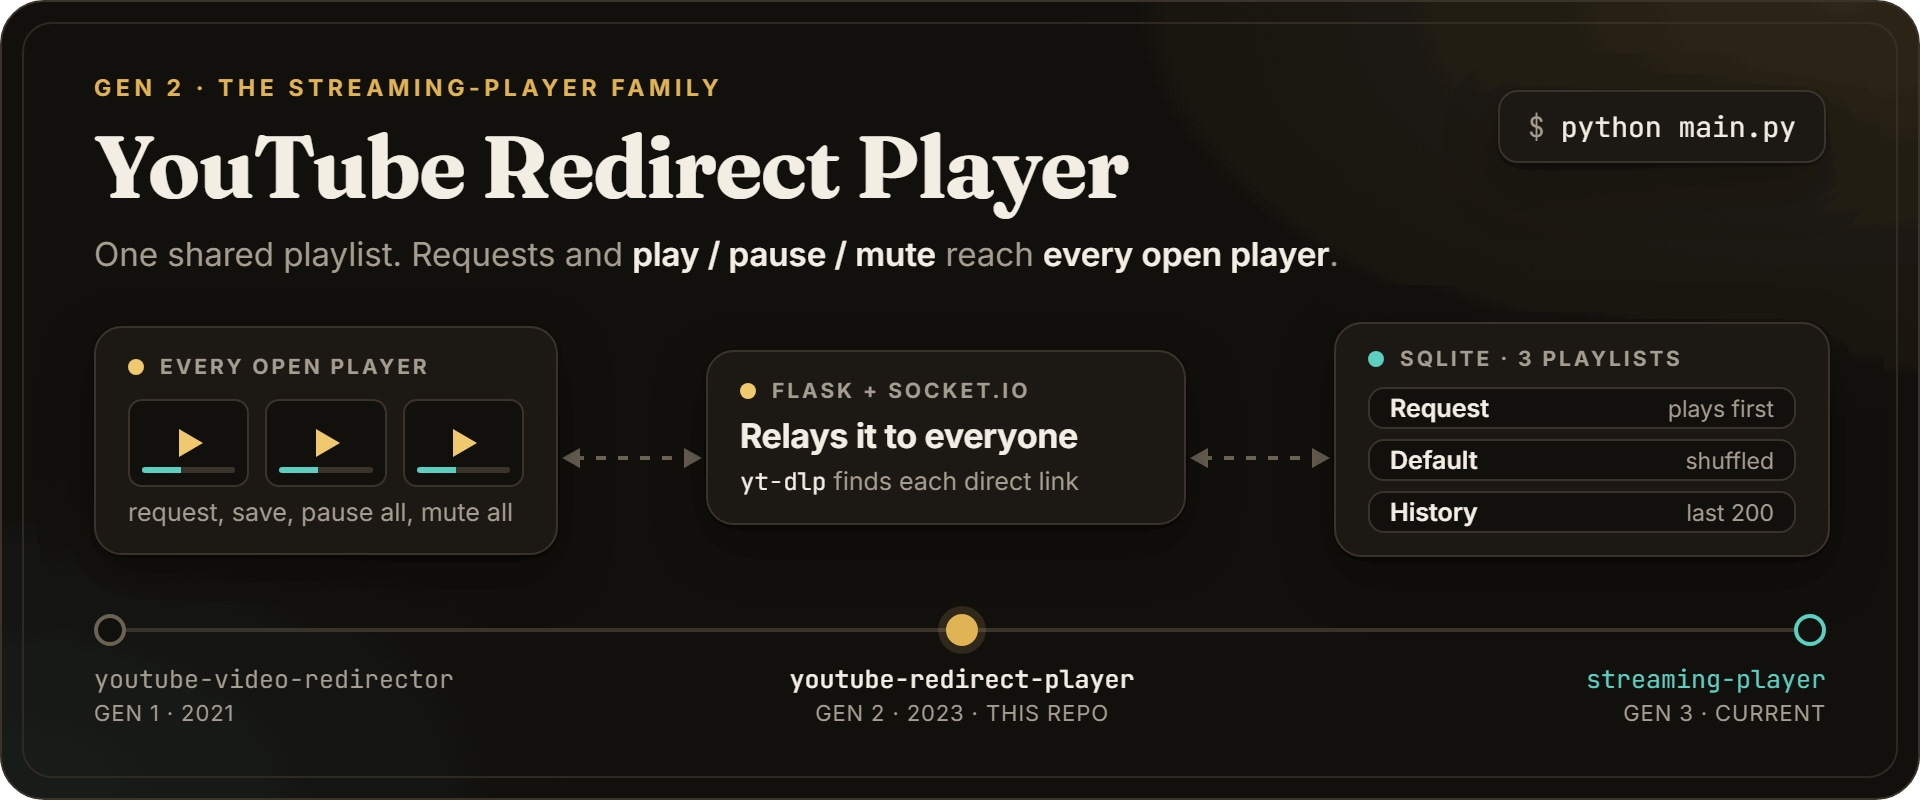
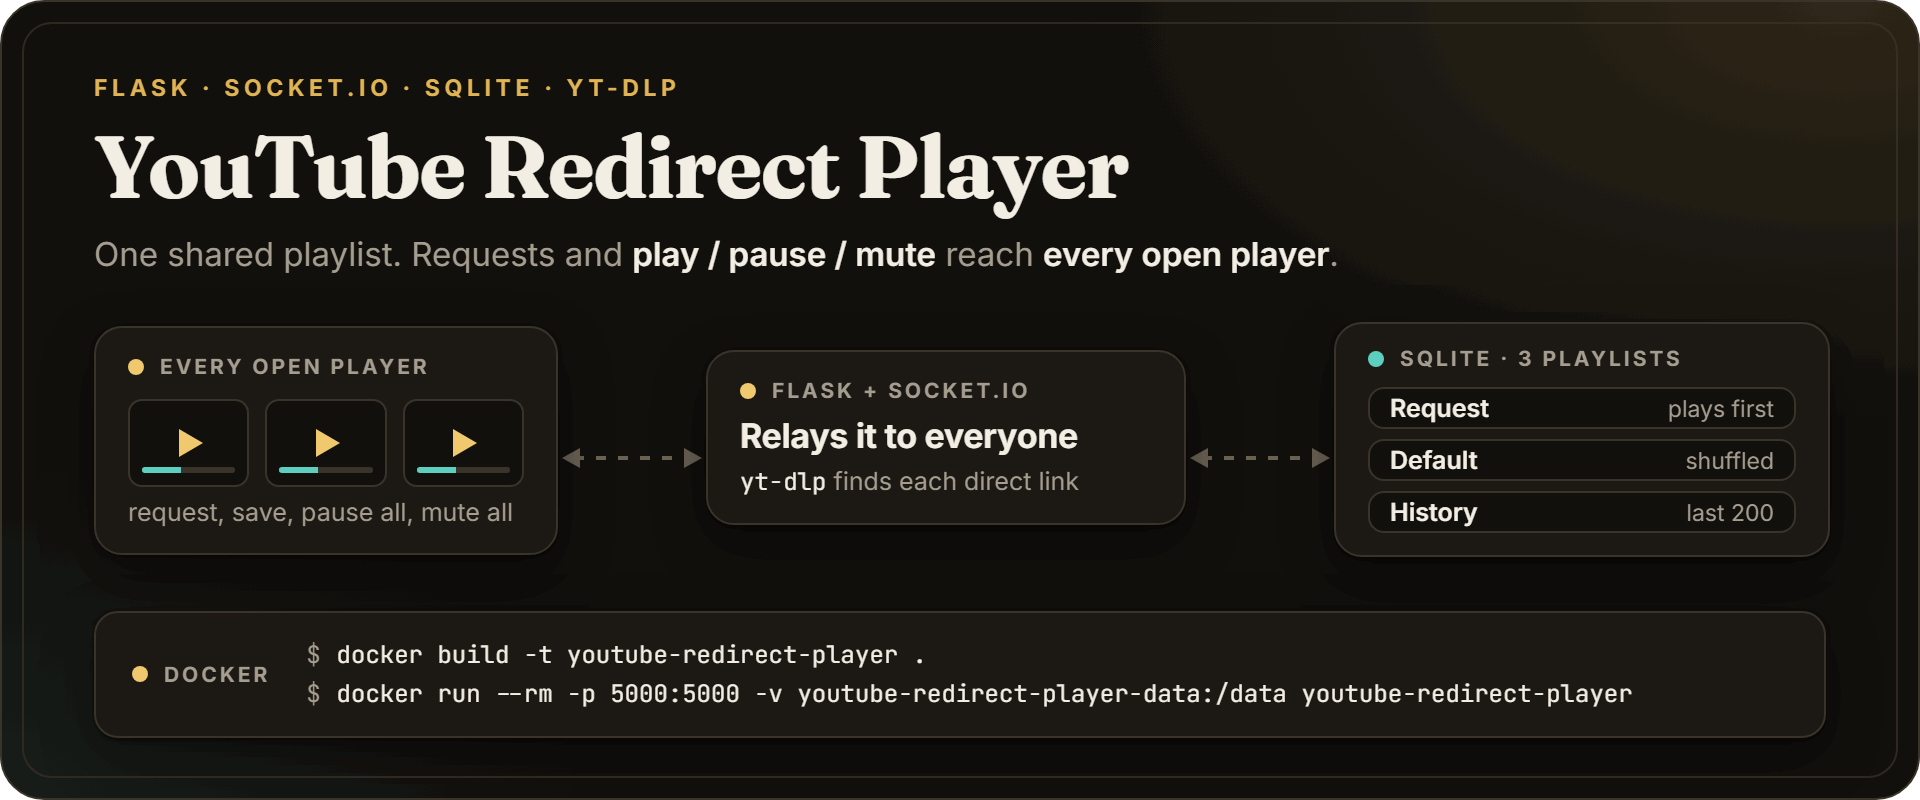
docs: make the cover about this project alone
The owner doesn't want this repo and its relatives described as
generations of each other, so the cover drops the "Gen 2 · the
streaming-player family" line and the three-repo timeline. The small
line on top now names the stack (Flask · Socket.IO · SQLite · yt-dlp),
and the bottom strip shows the two Docker commands from the README. The
corner `python main.py` chip went with it, so the cover doesn't list
two ways to start. cover.png (the 1280x640 social preview) is rebuilt
from the new banner.

Changed region(s): [[0.0312, 0.75, 0.9688, 0.9062], [0.0312, 0.0938, 0.375, 0.125], [0.8125, 0.125, 0.9375, 0.1875]]

diff --git a/docs/images/src/hero.html b/docs/images/src/hero.html
@@ -1,6 +1,6 @@
 <!doctype html>
 <!--
-  README banner, one of a pair with youtube-video-redirector (same layout, same palette).
+  README banner.
   Render the light and dark versions (#dark picks the dark theme) with a Chromium-based browser:
     msedge --headless=new --hide-scrollbars --force-device-scale-factor=2 --window-size=960,400
            --default-background-color=00000000 --virtual-time-budget=5000
@@ -46,9 +46,6 @@
   .tag { margin: 12px 0 0; font-size: 16.5px; color: var(--muted); }
   .tag b { color: var(--ink); font-weight: 600; }
 
-  .cmd { position: absolute; right: 46px; top: 44px; font-family: "JetBrains Mono", Consolas, monospace; font-size: 14px;
-         padding: 8px 14px; border-radius: 10px; border: 1px solid var(--line); background: var(--card); box-shadow: var(--shadow); }
-  .cmd span { color: var(--muted); margin-right: 8px; user-select: none; }
 
   .node { position: absolute; background: var(--card); border: 1px solid var(--line); border-radius: 14px;
           box-shadow: var(--shadow); padding: 13px 16px; }
@@ -81,33 +78,21 @@
   .wire { fill: none; stroke: var(--wire); stroke-width: 2; stroke-dasharray: 5 6; }
   .head { fill: var(--wire); }
 
-  .lineage { position: absolute; left: 46px; right: 46px; bottom: 34px; height: 58px; }
-  .rail { position: absolute; left: 7px; right: 7px; top: 7px; height: 2px; background: var(--line); }
-  .stop { position: absolute; top: 0; width: 260px; }
-  .stop .dot { width: 16px; height: 16px; border-radius: 50%; border: 2px solid var(--wire); background: var(--bg); }
-  .stop .name { margin-top: 8px; font-family: "JetBrains Mono", Consolas, monospace; font-size: 12.5px; color: var(--muted); }
-  .stop .when { font-size: 11px; color: var(--muted); margin-top: 2px; letter-spacing: .04em; }
-  .stop.here .dot { border-color: var(--brass); background: var(--brass); box-shadow: 0 0 0 4px var(--tint1); }
-  .stop.here .name { color: var(--ink); font-weight: 500; }
-  .stop.now .dot { border-color: var(--teal); }
-  .stop.now .name { color: var(--teal); }
-  #g1 { left: 0; }
-  #g2 { left: 434px; transform: translateX(-50%); text-align: center; }
-  #g3 { right: 0; width: 180px; text-align: right; }
-  #g2 .dot { margin: 0 auto; }
-  #g3 .dot { margin-left: auto; }
+  .run { position: absolute; left: 46px; right: 46px; bottom: 30px; display: flex; align-items: center; gap: 18px;
+         padding: 11px 18px; border-radius: 12px; border: 1px solid var(--line); background: var(--card); box-shadow: var(--shadow); }
+  .run .label { flex: none; }
+  .run .lines { font-family: "JetBrains Mono", Consolas, monospace; font-size: 12px; line-height: 1.65; white-space: nowrap; }
+  .run .lines span { color: var(--muted); margin-right: 8px; user-select: none; }
 </style>
 </head>
 <body>
 <script>if (location.hash === '#dark') document.documentElement.className = 'dark';</script>
 <div class="frame">
   <header>
-    <p class="eyebrow">Gen 2 · the streaming-player family</p>
+    <p class="eyebrow">Flask · Socket.IO · SQLite · yt-dlp</p>
     <h1>YouTube Redirect Player</h1>
     <p class="tag">One shared playlist. Requests and <b>play / pause / mute</b> reach <b>every open player</b>.</p>
   </header>
-
-  <div class="cmd"><span>$</span>python main.py</div>
 
   <svg class="wires" width="960" height="400">
     <path class="wire" d="M286 228 H344"/>
@@ -139,11 +124,9 @@
     </div>
   </div>
 
-  <div class="lineage">
-    <div class="rail"></div>
-    <div class="stop" id="g1"><div class="dot"></div><div class="name">youtube-video-redirector</div><div class="when">GEN 1 · 2021</div></div>
-    <div class="stop here" id="g2"><div class="dot"></div><div class="name">youtube-redirect-player</div><div class="when">GEN 2 · 2023 · THIS REPO</div></div>
-    <div class="stop now" id="g3"><div class="dot"></div><div class="name">streaming-player</div><div class="when">GEN 3 · CURRENT</div></div>
+  <div class="run">
+    <div class="label"><i></i>Docker</div>
+    <div class="lines"><span>$</span>docker build -t youtube-redirect-player .<br><span>$</span>docker run --rm -p 5000:5000 -v youtube-redirect-player-data:/data youtube-redirect-player</div>
   </div>
 </div>
 </body>
